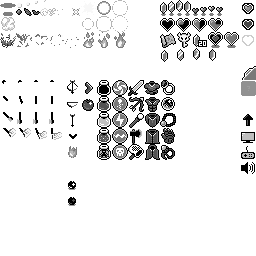
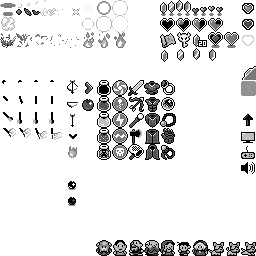
updated exit pillar sprite in the shop sprite sheet. playtested, looking much better now.
added sprites into MainSheet for item, weapon, armor, equipment, & potion vendors.
added sprites for 'guide' NPC and dog.

added 'VendorItems' value to ObjType enumerator.
added animation list for 'VendorItems' to GameObjAnimListManager.
added 'Vendor' value to ObjGroup enumerator.
updated GameObjFunctions.SetType() to set Vendor objType for VendorItems type.
updated InteractionFunctions.Interact(Actor, Obj) to handle Vendor group and VendorItems type.

updated DugeonFunctions.FinishRoom() to place an item vendor behind stone table.
playtested, the item vendor doesn't display properly because she's in the main sheet.
the obj pool only uses the dungeon sheet. so she needs to be in the dungeon sheet.
but, interaction with the vendor's collision rec works just fine, so it's only a visual bug.

Changed region(s): [[0.375, 0.9375, 1.0, 1.0]]

diff --git a/DungeonRun/Classes/DungeonFunctions.cs b/DungeonRun/Classes/DungeonFunctions.cs
@@ -508,20 +508,30 @@ namespace DungeonRun
                     0 * 16 + pos.Y + 0);
                 GameObjectFunctions.SetType(objRef, ObjType.BlockLight);
 
-                //stone table
-                objRef = PoolFunctions.GetObj();
-                MovementFunctions.Teleport(objRef.compMove,
-                    7 * 16 + pos.X + 8,
-                    4 * 16 + pos.Y + 8);
-                GameObjectFunctions.SetType(objRef, ObjType.BlockDraggable);
-
+                
+                /*
                 //bar end cap
                 objRef = PoolFunctions.GetObj();
                 MovementFunctions.Teleport(objRef.compMove,
                     9 * 16 + pos.X + 8,
                     4 * 16 + pos.Y + 8);
                 GameObjectFunctions.SetType(objRef, ObjType.SwitchBlockUp);
+                */
 
+
+
+                //stone table
+                objRef = PoolFunctions.GetObj();
+                MovementFunctions.Teleport(objRef.compMove,
+                    7 * 16 + pos.X + 8,
+                    4 * 16 + pos.Y + 8);
+                GameObjectFunctions.SetType(objRef, ObjType.BlockDraggable);
+                //item vendor
+                objRef = PoolFunctions.GetObj();
+                MovementFunctions.Teleport(objRef.compMove,
+                    7 * 16 + pos.X + 8,
+                    3 * 16 + pos.Y + 8);
+                GameObjectFunctions.SetType(objRef, ObjType.VendorItems);
 
 
             }

diff --git a/DungeonRun/Classes/InteractionFunctions.cs b/DungeonRun/Classes/InteractionFunctions.cs
@@ -177,6 +177,24 @@ namespace DungeonRun
             #endregion
 
 
+            //Vendors
+            else if (Obj.group == ObjGroup.Vendor)
+            {   //only HERO can open chests, and he must do so via the InteractionRec (A Button Press)
+                if (Actor == Pool.hero && Actor.state == ActorState.Interact)
+                {
+                    if (Obj.type == ObjType.VendorItems)
+                    {
+                        //open up the vendor screen, passing the obj as parameter
+                        //vendor screen checks for obj.type, display appropriate products
+                        Debug.WriteLine("opening vendor screen..");
+                    }
+                }
+            }
+
+
+
+
+
             #region Doors
 
             else if (Obj.group == ObjGroup.Door)

diff --git a/DungeonRun/Classes/Enumerators.cs b/DungeonRun/Classes/Enumerators.cs
@@ -35,7 +35,7 @@ namespace DungeonRun
 
     public enum ActorState { Idle, Move, Dash, Interact, Attack, Use, Hit, Dead, Reward }
 
-    public enum ObjGroup { Wall, Door, Chest, Object, Liftable, Draggable, Item, Projectile, Particle }
+    public enum ObjGroup { Wall, Door, Chest, Object, Liftable, Draggable, Item, Projectile, Particle, Vendor }
 
     public enum ObjType
     {
@@ -47,6 +47,9 @@ namespace DungeonRun
         BossStatue, BossDecal, Pillar, WallTorch, DebrisFloor,
         //Interactive Objects
         ChestGold, ChestKey, ChestMap, ChestHeartPiece, ChestEmpty,
+
+        VendorItems,
+
         BlockDraggable, BlockDark, BlockLight, BlockSpikes,
         Lever, PotSkull, SpikesFloor, Bumper, Flamethrower, Switch, Bridge,
         SwitchBlockBtn, SwitchBlockDown, SwitchBlockUp,

diff --git a/DungeonRun/Classes/GameObjectFunctions.cs b/DungeonRun/Classes/GameObjectFunctions.cs
@@ -311,6 +311,22 @@ namespace DungeonRun
                 if (Type != ObjType.ChestEmpty)
                 { Obj.group = ObjGroup.Chest; }
             }
+
+
+
+            else if (Type == ObjType.VendorItems)
+            {   //match the collision rec of a chest, for now
+                Obj.compCollision.offsetX = -7; Obj.compCollision.offsetY = -3;
+                Obj.compCollision.rec.Width = 14; Obj.compCollision.rec.Height = 11;
+                Obj.compSprite.zOffset = -7;
+                Obj.group = ObjGroup.Vendor;
+
+                //Obj.compAnim.speed = 6; //in frames
+                //Obj.compAnim.loop = true;
+            }
+
+
+
             else if (Type == ObjType.BlockDraggable)
             {
                 Obj.compCollision.rec.Height = 12;

diff --git a/DungeonRun/Classes/GameObjectAnimListManager.cs b/DungeonRun/Classes/GameObjectAnimListManager.cs
@@ -101,6 +101,9 @@ namespace DungeonRun
                 //ChestEmpty
                 new List<Byte4> { new Byte4(2, 6, 0, 0) },
 
+                //VendorItems
+                new List<Byte4> { new Byte4(7, 15, 0, 0), new Byte4(7, 15, 1, 0) },
+
                 //BlockDraggable
                 new List<Byte4> { new Byte4(2, 4, 0, 0) },
                 //BlockDark
